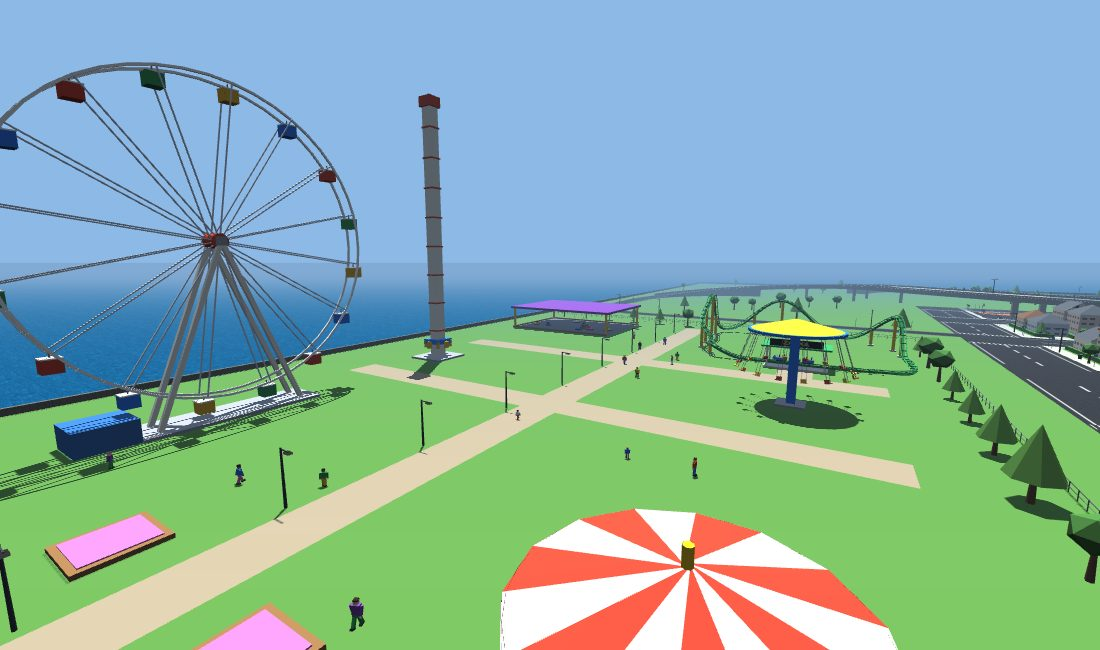
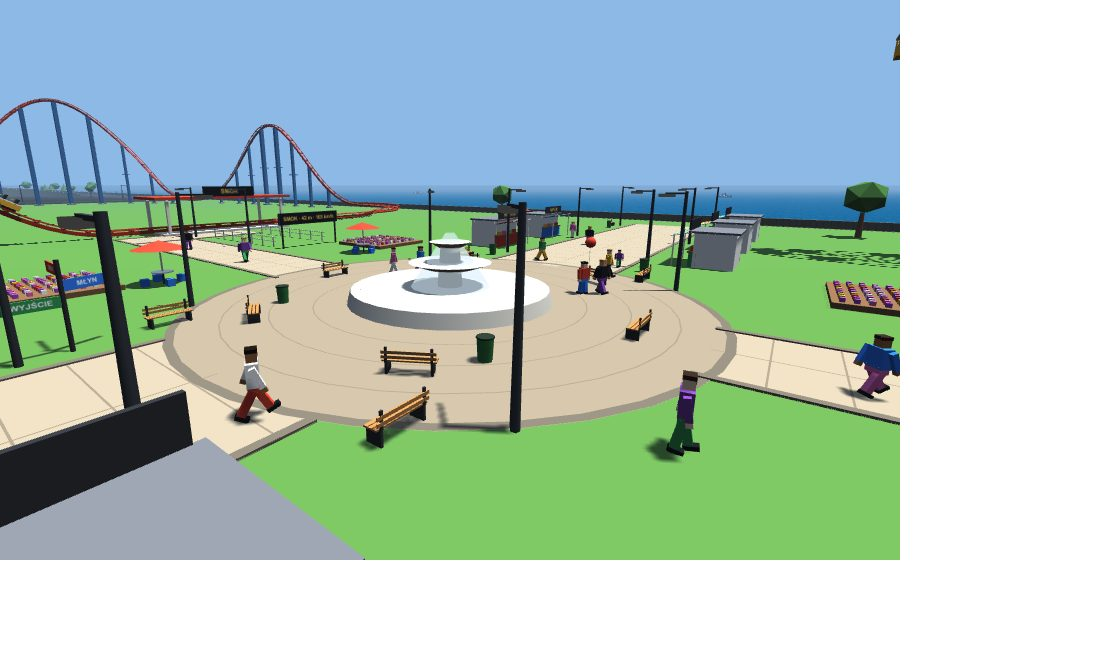
README i CLAUDE.md: przejażdżki w parku, detale, napisy; nowe zrzuty parku

diff --git a/CLAUDE.md b/CLAUDE.md
@@ -41,7 +41,7 @@ Brak bundlera: `index.html` ładuje zwykłe `<script>` w kolejności z `loadorde
 | vehicle-entry.js | wsiadanie, wysiadanie, kradzież, atrapa głównego auta |
 | air-traffic.js | ruch lotniczy NPC na drugich pasach (`NPC_RUNWAYS` z airport.js, `busy` = pas zajęty): `airPlan` (rozbieg, wznoszenie, łuk Hermite'a do punktu podejścia 900 m przed progiem, ścieżka 7,5 %, dobieg), `airAlt`/`airSpeed` wg drogi `s`, zawrót na końcu pasa, drugi krąg przy zajętym pasie; pozycje to zwykłe obiekty `{x,y,z}` (testy w Node), kwaternion liczony ręcznie; `setAirCount` |
 | planes.js | samoloty (`PLANE_TYPES` jet/prop, `planes`): modele, ciało kinematyczne G_PLANE, `enterPlane`/`exitPlane`, lot `planeStep` (W/S gaz, strzałki = docelowe pochylenie/przechył, asystent lądowania), skok `bailOut` + `updateParachute` (prostokątna czasza, A/D skręt, W/S szybciej/hamowanie; wołane w main-loop po `updatePlayer`, kompensuje grawitację świata −20), samolot bez pilota (`p.free`), katastrofa `planeCrash` (gracz na wolne miejsce `safeSpot`, efekty `fxList`/`updateFx`, wrak `wreckEmit`, `camShake`, `Sound.boom`; pilot ginie) |
-| park.js | park rozrywki we wschodnim pasie (`PARK`, `buildPark` z city-generation.js): alejki, brama, budki; kolejki górskie (`COASTERS`, `coasterBuild`: superelipsa z falowaniem, próbki co 1 m z ramą t/side/up i przechyłem, profil: stacja → wyciąg → górki → hamowanie; `coasterStep` — prędkość z energii minus tarcie; `coasterGeometry` — szyny, kręgosłup, podpory z kolizją), przejażdżka gracza (`mode = 'ride'`, `curRide`, `rideStart`/`rideEnd`, `rideCamera`, peron jako „pojazd” w `nearestVehicle`), karuzela, diabelski młyn, karuzela łańcuchowa, wieża spadania, autodrom, zwiedzający; ruch w `updatePark` (dalej niż 420 m — tylko kolejki) |
+| park.js | park rozrywki we wschodnim pasie (`PARK`, `buildPark` z city-generation.js): alejki, brama, budki; kolejki górskie (`COASTERS`, `coasterBuild`: superelipsa z falowaniem, próbki co 1 m z ramą t/side/up i przechyłem, profil: stacja → wyciąg → górki → hamowanie; `coasterStep` — prędkość z energii minus tarcie; `coasterGeometry` — szyny, kręgosłup, podpory z kolizją), przejażdżki (`RIDES`: { name, board, exit, ready(), wait, start(), tick?(), cam(dt), pos(), speed(), canExit? }; `mode = 'ride'`, `curRide`, `rideStart`/`rideEnd`, `rideCamera`, `seatCam`; wejście jako „pojazd” `kind: 'ride'` w `nearestVehicle`; atrakcje cykliczne `cycleRide` — wsiadanie na postoju, koniec po następnej jeździe), karuzela, diabelski młyn, karuzela łańcuchowa, wieża spadania, autodrom (`updateBumperCars`, gracz steruje `cars[0]`), detale (`pkPath`, `pkStall`, `pkBench`, `pkSign`, `pkRail`, `pkSignpost`; statyczne bryły w jednej siatce `PKS`), zwiedzający (tworzeni leniwie — `buildHumanoid` jest w player.js, wczytywanym później); ruch w `updatePark` (dalej niż 420 m — tylko kolejki) |
 | landmarks.js | detale lotnisk i portów (jedna scalona siatka `LM`, `buildLandmarks`): łukowy dach i okrągła wieża na wysepce, ceglany terminal/wieża i hangary łukowe w lotnisku miejskim, falochron z latarnią, zbiorniki, holownik, dziób statku, kasa, prom, jachty |
 | boats.js | łodzie (`BOAT_T`, `boats`, `makeBoat`): model, `enterBoat`/`exitBoat` (wysiadka tylko przy brzegu), `updateBoat`, `boatBlocked` (ląd, pomosty, statek, inne łodzie), łodzie NPC (`b.npc`, `npcBoatStep`, cele w `NPC_BOAT_AREA` z wolną linią wody, `setNpcBoatCount`), `playerWorldPos()` |
 | birds.js | mewy (`BIRD_FLOCKS`, jedna dynamiczna siatka), zrzut balastu (`birdDrop`, plamy `splatAt` znikają po kilku s, trafienie gracza → `#birdSplat`) |
@@ -84,6 +84,7 @@ Tryby `mode`: foot / car / plane / boat / ride (kolejka w parku). Klawisze: M = 
 ## Pułapki
 - `core.autocrlf=true`: pliki w repo mają CRLF po checkoutcie; przed porównaniami tekstu normalizuj `\r\n`.
 - `GeoBuf.quad`: normalna = (b−a)×(d−a); poziome powierzchnie muszą patrzeć w górę (sim.js to sprawdza).
+- `wordSignQuad` dobiera proporcje płótna do proporcji quada i zmniejsza czcionkę, aż tekst się zmieści (wcześniej płótno 512 px ucinało dłuższe napisy i rozciągało litery).
 - `GeoBuf.box`/`boxRot` nie mają spodu, chyba że bryła wisi (spód > 0.3 m) albo jest tuż nad wodą (spód −0.85…−0.05) — wtedy spód dodawany automatycznie (pomosty, dźwigi, rękawy, oczepy); bez tego z dołu widać przez nie niebo.
 - Raycasty z `skipBackfaces: true`.
 - Znaki stawiaj przez `placeSign` po sprawdzeniu `signSpotFree`; na autostradach przez `hwySignAt`.
